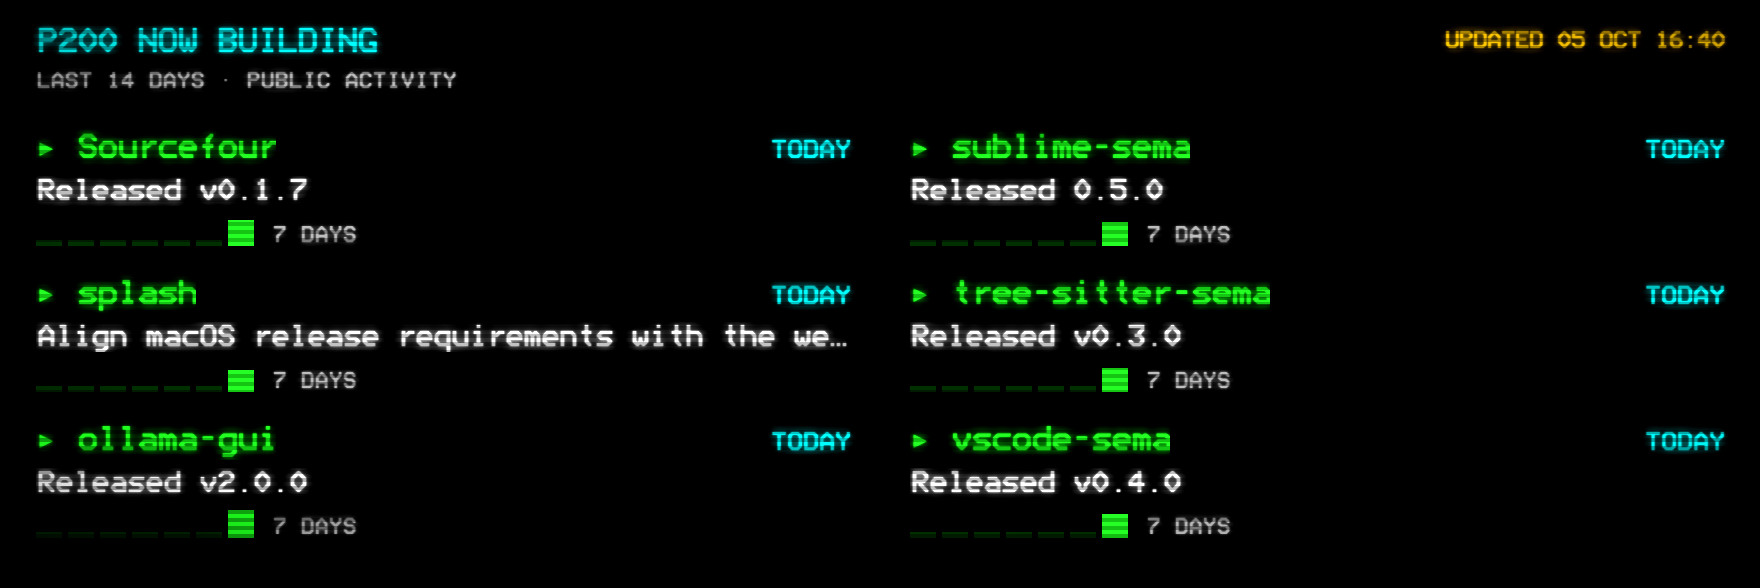
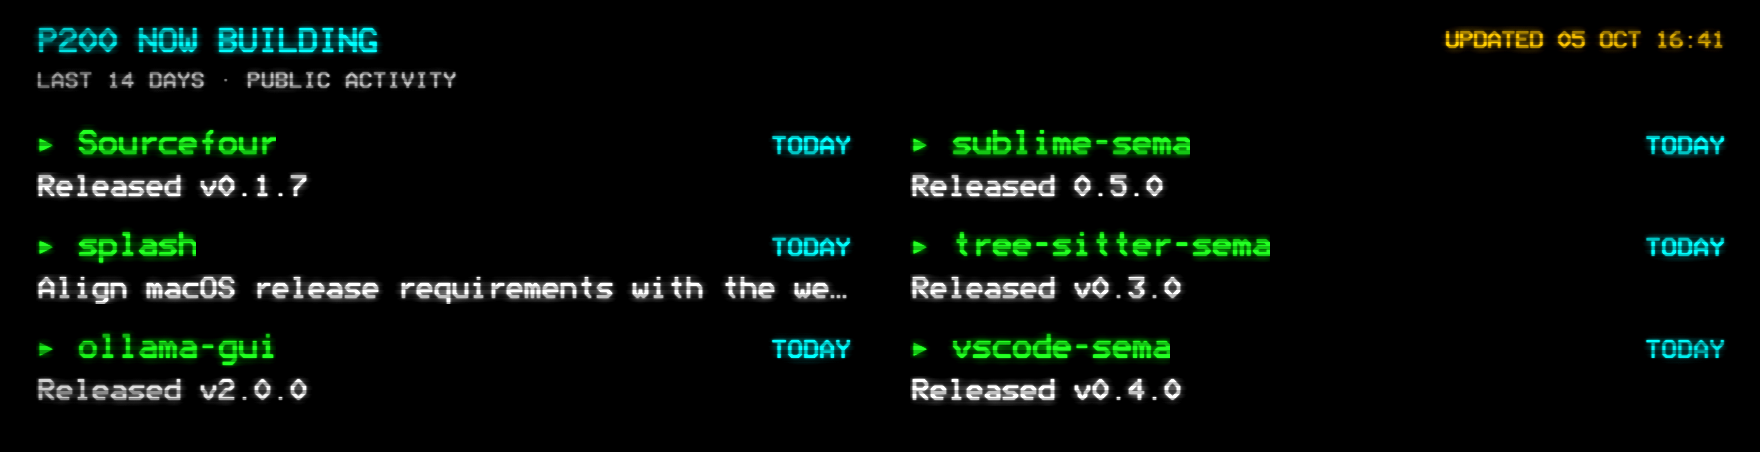
Simplify Now Building by removing seven-day activity bars

diff --git a/ACTIVITY.md b/ACTIVITY.md
@@ -4,7 +4,7 @@
 
 The collector searches commits authored by HelgeSverre and merged PRs authored by HelgeSverre across public personal and organization repositories over 14 days, then checks releases in those active repositories. It excludes merge commits, bot authors, private repositories, and the profile repository. This is authored activity, not all work done by every contributor in the user's organizations. Releases in otherwise inactive repositories are not discovered. GitHub commit search can lag and caps results at 1,000; the header labels a capped snapshot PARTIAL.
 
-Projects rank by distinct active days (3 points/day), recency (up to 14), releases (+4) and merged PRs (+2). Counts do not affect ranking. Seven bars show daily event counts. Programme entries are sorted by actual event time; commits are grouped per repo/Oslo calendar day. PR times come from `merged_at`, not issue `updated_at`. Labels and titles are deterministic, without LLM calls. Long titles are ellipsized; full titles and source URLs remain in the snapshot.
+Projects rank by distinct active days (3 points/day), recency (up to 14), releases (+4) and merged PRs (+2). Counts do not affect ranking. Programme entries are sorted by actual event time; commits are grouped per repo/Oslo calendar day. PR times come from `merged_at`, not issue `updated_at`. Labels and titles are deterministic, without LLM calls. Long titles are ellipsized; full titles and source URLs remain in the snapshot.
 
 Edit `data/activity.json` for display-name overrides, excluded full repo names and pinned active repositories. Pins do not fabricate activity. A successful fetch writes `images/activity.json`, committed by the existing six-hour workflow. A fetch failure reuses that snapshot and displays its original timestamp with CACHED. No cache means the run fails without overwriting the existing images. Empty successful activity displays an explicit empty state.
 
